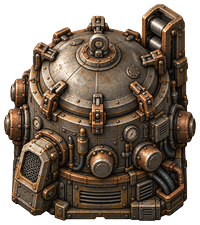
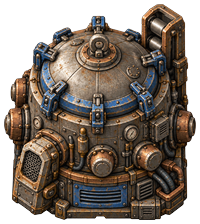
The cold machines get their own accent, and it is paint
The Core's palette is one warm iron-nickel body plus copper, and the only things
that break it are emissive: heat, frost, a field, a charge. A machine whose
process makes no light therefore had nothing to be told apart by -- ten of our
icons sat in a nine-degree hue band at mean pairwise RGB distance 13.2, against
vanilla's six production icons spanning 27 to 98 degrees at 32.6.

So the rule, now in the template: an accent is either the light a process makes
or the paint the crew put on it, and paint never glows. Paint is reflective,
chipped and worn, and it goes where real industrial equipment carries colour --
guards, service panels, moving-part covers -- which is where vanilla carries it
too.

The Dross Classifier takes signal yellow on the eccentric-drive guard, the four
spring caps and the drive-end rail: yellow is what a moving-part guard is
painted, and this machine's whole read is that it shakes. The Whisker Comber
takes service blue on the shoulder band, the lid's toggle dogs and the skirt's
access panel: the parts a person touches on a machine handling something that
would cut you. Both are edits of the shipped plates with everything else
unchanged, and both re-cut to 3.000 tiles, centred to 0.0 px, edges clear.

Then the measurement corrected the rule I had just written. I said machines whose
process already makes light do not need paint. Counting distinct-hue pixels at
16 px says otherwise: the painted Classifier now carries 11 and the Comber 7, out
[…]

diff --git a/graphics/building-spec-template.md b/graphics/building-spec-template.md
@@ -1314,6 +1314,73 @@ permitted. Words specify a design; only the image preserves it.
 
 ---
 
+### Every machine gets an accent, and a cold machine's accent is paint
+
+**Measured across ten of our icons:** they sit in a nine-degree hue band, mean
+pairwise RGB distance **13.2**, closest pair **1.6** apart, where vanilla's six
+production icons span 27°–98° at **32.6**. The cause is that the Core's palette
+is one warm iron-nickel body plus copper, and the only things that break it are
+*emissive*: melt heat, cryogenic frost, a violet field, a charge light. A machine
+whose process makes no light therefore has nothing to be told apart by.
+
+**So the rule is: an accent is either the light a process makes, or the paint the
+crew put on it — and paint never glows.** Paint is reflective, chipped, worn and
+sits on guards, service panels and moving-part covers, which is where real
+industrial equipment carries colour and where vanilla carries it too: its
+assembling machines are blue-grey with yellow, its chemical plant white and red,
+its centrifuge green and yellow.
+
+**The semantic colours are taken and paint must not borrow them.** Orange
+`#D96B29`–`#FFB25A` is heat. Pale blue `#B8C4C8`–`#EAF4FA` is frost and cryogenic
+jacketing. Violet `#6A5AC8`–`#B0A8F0` is a field. Pale gold `#F0E0A8` is stored
+charge. Copper `#8A5A32`–`#C88A4A` is a *material*, not an accent, and it is on
+every building.
+
+| Machine | Accent | Where | Why that colour |
+| ------- | ------ | ----- | --------------- |
+| Dross Classifier | **signal yellow `#C8A23A`** | eccentric drive guard, spring caps | The machine's whole read is that it *moves*; yellow is what a moving-part guard is painted |
+| Whisker Comber | **service blue `#2E5A8C`** | guard hood band, lid dogs | The material would cut you, so the machine is about being *guarded*; blue is the mandatory-action colour and nothing else in the mod is near 210° |
+| Bed Tender · Drop Crusher · Ballast Drill · Ignition Ring Mast | not yet assigned | — | Take a hue when the building is next touched, from this table's logic rather than from taste |
+
+**Correction, made the same day and measured: a light is not an accent at icon
+size.** The first version of this note said machines whose process makes light do
+not need paint. Counting distinct-hue pixels in each icon at 16 px says otherwise:
+
+| Icon | distinct pixels at 16 px, of ~150 lit |
+| ---- | --- |
+| Dross Classifier (painted) | **11 yellow** |
+| Coil Separator (field) | **8 violet, 7 frost** |
+| Whisker Comber (painted) | **7 blue** |
+| Vacuum Furnace (sight port) | 1 |
+| Helium Concentrator (frost) | 1 |
+| Crust Tap (frost + heat) | 1 |
+| Sealed Roboport (amber lamps) | **0** |
+| Bed Tender | **0** |
+
+**An accent that survives to icon size has to be an AREA, not a point.** Paint on
+a guard is an area. A lit port, a rime band on a pipe, a ring of small lamps are
+points, and they are gone by 16 px. The Coil Separator survives only because its
+field fills a whole slot.
+
+So the rule is the simple one: **every machine gets paint**, and a process light
+is a bonus on the plate rather than a substitute in the icon. Vanilla agrees —
+its chemical plant has both painted panels and lit windows.
+
+**Assignment, to be taken when each building is next touched:**
+
+| Machine | Accent | Status |
+| ------- | ------ | ------ |
+| Dross Classifier | signal yellow `#C8A23A` | **done** |
+| Whisker Comber | service blue `#2E5A8C` | **done** |
+| Sealed Roboport | — | measures 0 distinct px; its amber lamps do not survive |
+| Bed Tender | — | measures 0 distinct px |
+| Drop Crusher · Ballast Drill · Vacuum Furnace · Helium Concentrator · Crust Tap · Ring Mast | — | to assign |
+
+**Repainting a building that has derived layers is not a drive-by job.** The
+Sealed Roboport's lamps and the Bed Tender's bin are differenced or cut against
+their own plates, so a regenerated plate has to be followed by re-deriving them
+or they stop registering. Those two are a deliberate pass, not a quick edit.
+
 ### Icons are separated by colour, not by silhouette
 
 **Measured, on ten icons.** Our building icons overlap each other at a mean

diff --git a/graphics/building-spec-whisker-comber.md b/graphics/building-spec-whisker-comber.md
@@ -338,3 +338,24 @@ junction box, more skirt fittings and bolt rings, and it measures warmth **+40**
 which was the condition the option page set: everything separating it from the
 Sealed Roboport had to survive. On the plate it did. At icon size it did not —
 see §16.
+
+---
+
+# 25. The accent, and why a cold machine needs paint
+
+**This machine makes no light, so it had nothing to be told apart by.** Measured
+across ten of our icons: they sat in a nine-degree hue band at a mean pairwise
+RGB distance of 13.2, where vanilla's six production icons span 27°–98° at 32.6.
+The Core's palette is one warm iron-nickel body plus copper, and the only things
+that break it are emissive — heat, frost, a field, a charge.
+
+**So the accent is paint:** service blue `#2E5A8C`, on the shoulder band, the lid's toggle dogs and the drive skirt's access panel. Blue is the colour a guarded machine's service furniture carries, and these are the parts a person touches on a machine handling something that would cut you. Paint is reflective, chipped and worn;
+it never glows, and it is not a status light.
+
+**Measured after the repaint:** the icon now carries **7 blue** distinct-hue pixels
+at 16 px out of about 150 lit, where it carried none. That is the number that
+matters — an accent has to be an *area* to survive to icon size, which a lit port
+or a rime band does not.
+
+See the template's *"Every machine gets an accent"* note for the rule and the
+assignment table.

diff --git a/graphics/building-spec-dross-classifier.md b/graphics/building-spec-dross-classifier.md
@@ -326,3 +326,24 @@ describe no adopted design.
   should, or classifying is optional and the building is decoration. That is a
   one-line change to `recipes.lua:sae-whisker-bed`, and it should land in the
   same commit.
+
+---
+
+# 25. The accent, and why a cold machine needs paint
+
+**This machine makes no light, so it had nothing to be told apart by.** Measured
+across ten of our icons: they sat in a nine-degree hue band at a mean pairwise
+RGB distance of 13.2, where vanilla's six production icons span 27°–98° at 32.6.
+The Core's palette is one warm iron-nickel body plus copper, and the only things
+that break it are emissive — heat, frost, a field, a charge.
+
+**So the accent is paint:** signal yellow `#C8A23A`, on the eccentric-drive guard, the four spring caps and the drive-end rail. Yellow is what a moving-part guard is painted, and this machine's whole read is that it shakes. Paint is reflective, chipped and worn;
+it never glows, and it is not a status light.
+
+**Measured after the repaint:** the icon now carries **11 yellow** distinct-hue pixels
+at 16 px out of about 150 lit, where it carried none. That is the number that
+matters — an accent has to be an *area* to survive to icon size, which a lit port
+or a rime band does not.
+
+See the template's *"Every machine gets an accent"* note for the rule and the
+assignment table.
